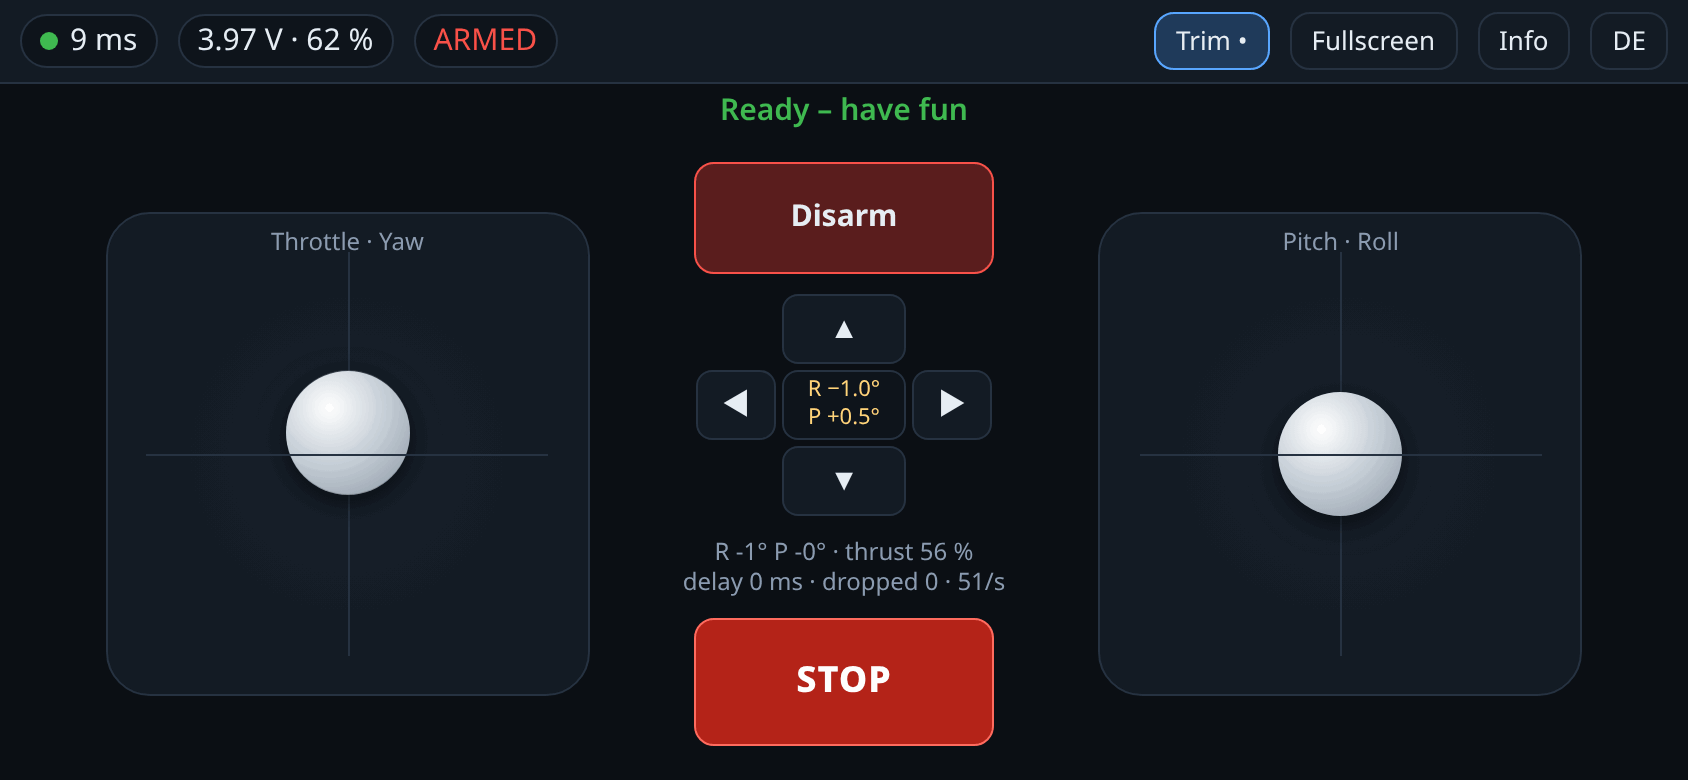
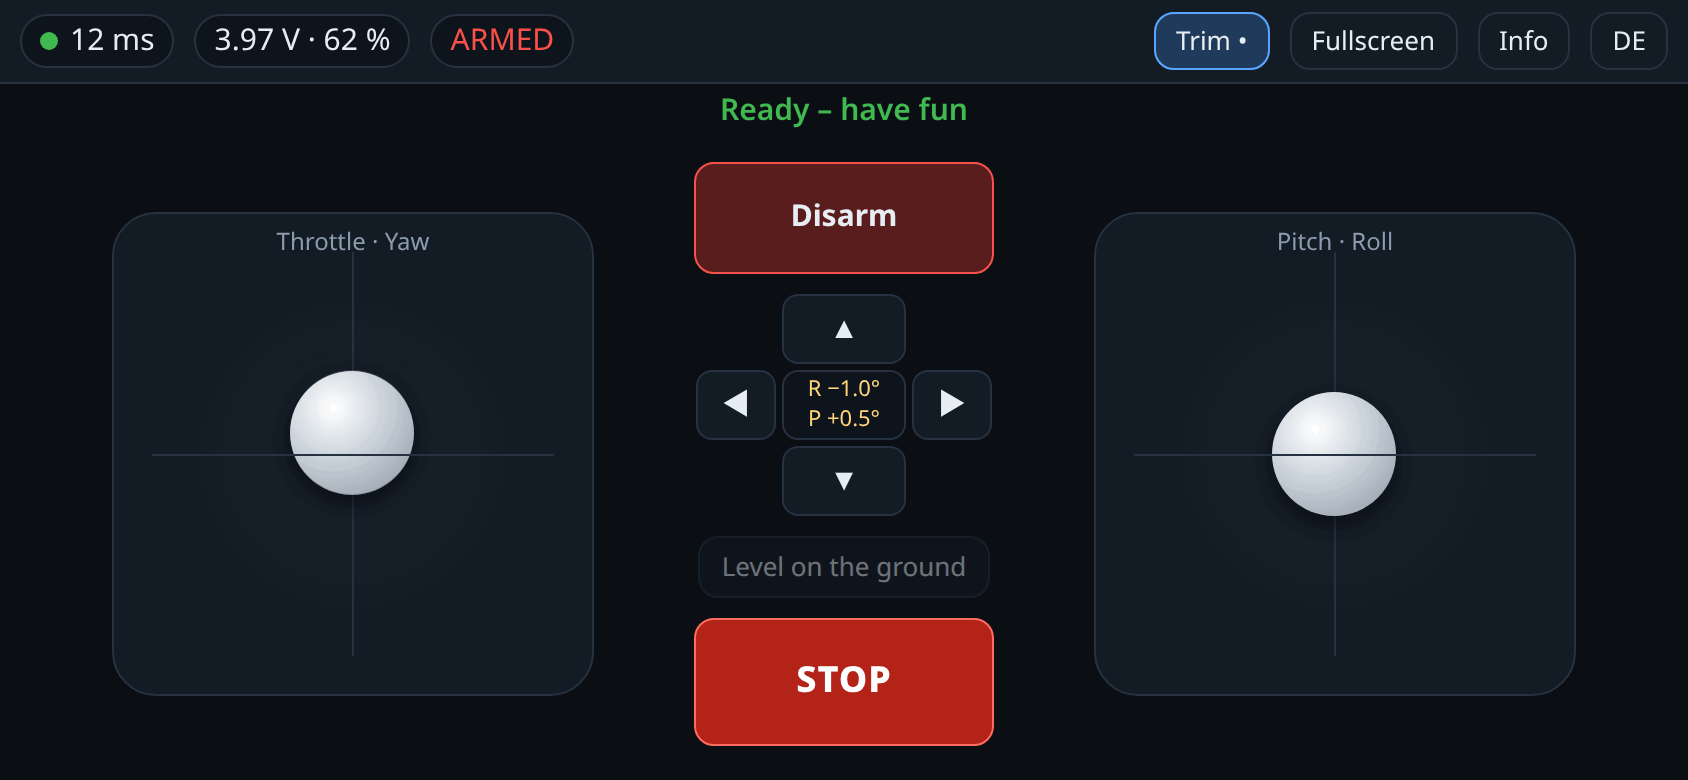
feat(webctrl): level on the ground, getting started guide
Cheap IMU modules sit a few degrees off, so the drone drifts until it is
trimmed in flight. "Level on the ground" in the trim panel measures the
attitude the drone reports for 2 s while it stands still on a level
surface and sets the trim from it (roll trim = roll reading, pitch trim
= minus the pitch reading). It refuses while armed, if the drone moves
(spread above 0.5 deg) or if it is tilted more than 5 deg. Page only:
it uses the existing TRIM message, and the drone stores the result.
While trimming, the stats make room for the button.

docs/getting-started.md takes an E1 Mini from the box to the first
hover in seven steps, linked from the README and the guides.
mock_drone.py simulates a tilted sensor (--imu-offset); a headless
Chrome test checked levelling, the 5 deg limit and the armed lock. The
README screenshots are renewed.

Claude-Session: https://claude.ai/code/session_01JeiNBQi8hs8RskSMvmnBpu

diff --git a/components/webctrl/web/index.html b/components/webctrl/web/index.html
@@ -50,6 +50,9 @@ button:disabled{opacity:.45}
 #mid.trimming #horizon{display:none}
 #mid.trimming #trim{display:grid}
 #trimBtn.on{background:#1f3a5a;border-color:var(--accent)}
+#level{display:none;width:146px;padding:6px 8px;font-size:13px}
+#mid.trimming #level{display:block}
+#mid.trimming #stats{display:none}
 #rotate,#dlg{position:fixed;inset:0;display:none;align-items:center;justify-content:center;background:#0b0f14f2;z-index:5;padding:20px;text-align:center}
 #dlg .box{max-width:560px;max-height:90vh;overflow:auto;text-align:left;background:var(--panel);border:1px solid var(--line);border-radius:14px;padding:16px;user-select:text;-webkit-user-select:text;touch-action:pan-y}
 #dlg h2{margin:.2em 0 .5em;font-size:18px}#dlg p{margin:.5em 0;color:#c8d1db}#dlg small{color:var(--dim)}
@@ -79,6 +82,7 @@ button:disabled{opacity:.45}
         <button data-ax="r" data-d="-1" data-ta="trimLeft">◀</button><div id="trimVal"><span id="trimR"></span><span id="trimP"></span></div><button data-ax="r" data-d="1" data-ta="trimRight">▶</button>
         <span></span><button data-ax="p" data-d="-1" data-ta="trimDown">▼</button><span></span>
       </div>
+      <button id="level" data-t="level"></button>
       <div id="stats">–</div>
       <button id="kill" data-t="kill"></button>
     </div>
@@ -124,6 +128,9 @@ const TEXT = {
     kill: "STOP", killSent: "STOP sent – motors off",
     trimUp: "Trim forward", trimDown: "Trim backward", trimLeft: "Trim left", trimRight: "Trim right",
     trimLimit: "Trim at its limit (±5°)", trimReset: "Trim reset to 0", roll: "R", pitch: "P",
+    level: "Level on the ground", levelBusy: "Measuring… keep still", levelNotNow: "Level only on the ground, disarmed",
+    levelNoData: "No attitude data – try again", levelMoved: "The drone moved – put it down still and try again",
+    levelTooFar: "Tilted more than 5° – is the surface level?", levelDone: (r, p) => `Levelled: trim R ${r} · P ${p}`,
     stats: (s) => `R ${s.roll}° P ${s.pitch}° · thrust ${s.thrust} %\ndelay ${s.delay} ms · dropped ${s.stale} · ${s.rate}/s`,
     stages: ["", "Short gap – holding the last command", "Link lost – drone is levelling out",
       "Link lost – drone is descending", "Motors off"],
@@ -151,7 +158,8 @@ const TEXT = {
     helpLink: "<b>Link loss:</b> The drone bridges short gaps; after that it levels out, descends and turns the motors off",
     helpTrim: "<b>Trim:</b> If the drone drifts sideways by itself while hovering, tap “Trim” and correct with the " +
       "arrows (0.5° per tap, up to ±5°): if it drifts to the right, tap ◀. A long press on the middle resets to 0. " +
-      "The drone stores the values; in flight only the pilot may trim.",
+      "The drone stores the values; in flight only the pilot may trim. Before the first flight, put the drone on a " +
+      "level surface and tap “Level on the ground”: it measures the tilt of the sensor and sets the trim from it.",
     helpBattery: "<b>Battery:</b>",
     helpSafety: "<b>Safety:</b> Propellers can injure. Only fly in a safe place and keep away from people.",
     license: "ESP-Drone web control · Copyright © 2026 Philipp Weber. Based on ESP-Drone (© Espressif Systems) " +
@@ -170,6 +178,9 @@ const TEXT = {
     kill: "NOT-AUS", killSent: "NOT-AUS gesendet",
     trimUp: "Trimm vorwärts", trimDown: "Trimm rückwärts", trimLeft: "Trimm links", trimRight: "Trimm rechts",
     trimLimit: "Trimmung am Anschlag (±5°)", trimReset: "Trimmung auf 0 gesetzt", roll: "R", pitch: "N",
+    level: "Am Boden nivellieren", levelBusy: "Misst… nicht bewegen", levelNotNow: "Nivellieren nur am Boden und entschärft",
+    levelNoData: "Keine Lagedaten – bitte noch einmal", levelMoved: "Drohne hat sich bewegt – still hinstellen und nochmal",
+    levelTooFar: "Mehr als 5° schief – ist die Fläche eben?", levelDone: (r, p) => `Nivelliert: Trimmung R ${r} · N ${p}`,
     stats: (s) => `R ${s.roll}° N ${s.pitch}° · Schub ${s.thrust} %\nVerzög. ${s.delay} ms · verworfen ${s.stale} · ${s.rate}/s`,
     stages: ["", "Aussetzer – letzter Befehl wird gehalten", "Verbindung weg – Drohne richtet sich gerade aus",
       "Verbindung weg – Drohne sinkt ab", "Motoren aus"],
@@ -200,7 +211,9 @@ const TEXT = {
       "sinkt ab und schaltet die Motoren ab",
     helpTrim: "<b>Trimmen:</b> Driftet die Drohne beim Schweben von allein zur Seite, „Trimm“ antippen und mit den " +
       "Pfeilen gegensteuern (je 0,5°, höchstens ±5°): Driftet sie nach rechts, ◀ tippen. Lange auf die Mitte " +
-      "drücken setzt auf 0. Die Drohne speichert die Werte selbst; im Flug darf nur der Pilot trimmen.",
+      "drücken setzt auf 0. Die Drohne speichert die Werte selbst; im Flug darf nur der Pilot trimmen. Vor dem ersten " +
+      "Flug die Drohne auf eine ebene Fläche stellen und „Am Boden nivellieren“ tippen: Sie misst die Schieflage des " +
+      "Sensors und stellt die Trimmung danach ein.",
     helpBattery: "<b>Akku:</b>",
     helpSafety: "<b>Sicherheit:</b> Propeller können verletzen. Nur in sicherer Umgebung fliegen, Abstand zu Personen halten.",
     license: "ESP-Drone Web Control · Copyright © 2026 Philipp Weber. Basiert auf ESP-Drone (© Espressif Systems) " +
@@ -331,6 +344,7 @@ function onTelemetry(v) {
   const now = performance.now();
   const wasFlying = !!(tel && (tel.state & S_ARMED) && (tel.state & S_YOU));
   lastTel = now; tel = tm;
+  if (levelSamples && now < levelUntil && !(tm.state & S_ARMED)) levelSamples.push({ r: tm.roll, p: tm.pitch });
   const r = (ms32() - tm.echoMs) >>> 0;
   if (tm.echoMs && r < 10000) rtt = rtt < 0 ? r : rtt * 0.8 + r * 0.2;
 
@@ -434,6 +448,33 @@ trimVal.addEventListener("pointerdown", () => {
   trimResetTimer = setTimeout(() => { if (sendTrim(0, 0)) { buzz(40); toast(t("trimReset"), "info"); } }, 800);
 });
 ["pointerup", "pointercancel", "pointerleave"].forEach(ev => trimVal.addEventListener(ev, () => clearTimeout(trimResetTimer)));
+// ---- level on the ground: the tilt the sensor reads becomes the trim --------
+const LEVEL_MS = 2000, LEVEL_MAX_SPREAD = 0.5, LEVEL_MAX_DEG = 5;
+let levelSamples = null, levelUntil = 0;
+$("level").addEventListener("click", () => {
+  if (levelSamples) return;
+  if (!trimAllowed() || (tel.state & S_ARMED)) { toast(t("levelNotNow"), "warn"); return; }
+  if (!(tel.state & S_READY)) { toast(t("msgCalibrating"), "warn"); return; }
+  levelSamples = []; levelUntil = performance.now() + LEVEL_MS;
+  renderTrim();
+  setTimeout(finishLevel, LEVEL_MS + 100);
+});
+function finishLevel() {
+  const samples = levelSamples || [];
+  levelSamples = null;
+  renderTrim();
+  if (samples.length < 20) { toast(t("levelNoData"), "warn"); return; }
+  const span = k => Math.max(...samples.map(x => x[k])) - Math.min(...samples.map(x => x[k]));
+  if (span("r") > LEVEL_MAX_SPREAD || span("p") > LEVEL_MAX_SPREAD) { toast(t("levelMoved"), "warn"); return; }
+  const mean = k => samples.reduce((a, x) => a + x[k], 0) / samples.length;
+  const roll = mean("r"), pitch = mean("p");
+  if (Math.abs(roll) > LEVEL_MAX_DEG || Math.abs(pitch) > LEVEL_MAX_DEG) { toast(t("levelTooFar"), "bad"); return; }
+  // To hover level, the drone has to hold the attitude its sensor reads when it
+  // stands level. Roll trim (+ = right) is the roll reading; pitch trim
+  // (+ = forward, nose down) is minus the pitch reading (+ = nose up).
+  const r = Math.round(roll * 10), p = Math.round(-pitch * 10);
+  if (sendTrim(r, p)) { buzz(40); toast(t("levelDone")(fmtTrim(r), fmtTrim(p)), "ok"); }
+}
 $("trimBtn").onclick = () => {
   const on = $("mid").classList.toggle("trimming");
   $("trimBtn").classList.toggle("on", on);
@@ -447,6 +488,9 @@ function renderTrim() {
   trimVal.classList.toggle("set", set);
   document.querySelectorAll("#trim button").forEach(b => { b.disabled = !ok; });
   $("trimBtn").textContent = t("trim") + (set ? " •" : "");
+  const lv = $("level");
+  lv.textContent = levelSamples ? t("levelBusy") : t("level");
+  lv.disabled = !!levelSamples || !ok || !!(tel && (tel.state & S_ARMED));
 }
 
 $("info").onclick = () => { $("dlg").style.display = "flex"; };

diff --git a/tools/mock_drone.py b/tools/mock_drone.py
@@ -21,6 +21,8 @@ UI tool, the real logic is tested in components/webctrl/host_test.
                               second in flight. Under load it sags by up to
                               0.4 V. Try --vbat 3.45 --drain 0.02 to see the
                               forced landing after about 10 s of hovering.
+--imu-offset R,P              the sensor reads roll R and pitch P degrees while
+                              the drone stands level (try "Level on the ground")
 
 Copyright 2026 Philipp Weber
 SPDX-License-Identifier: GPL-3.0-only
@@ -211,6 +213,9 @@ class Drone:
                 s |= S_OTHER
             if self.stage >= 2:
                 s |= S_FAILSAFE
+        # On the ground a tilted sensor shows its offset; in flight the controller
+        # holds the reading at the setpoint, so the offset is not visible.
+        off_r, off_p = (0.0, 0.0) if self.token else args.imu_offset
         v = self.vbat()
         if 0.5 <= v < BAT_LOW_V:
             s |= S_LOWBAT
@@ -224,7 +229,8 @@ class Drone:
         seq, cms = c.echo
         mine = c is self.pilot
         return struct.pack("<BBBBHHIHhhhHHHBBIIbbH", MSG_TELEMETRY, s, self.stage if self.token else 4, c.arm_result,
-                           seq, c.rate, cms, int(v * 1000), int(self.roll * 100), int(self.pitch * 100),
+                           seq, c.rate, cms, int(v * 1000), int((self.roll + off_r) * 100),
+                           int((self.pitch + off_p) * 100),
                            int(self.yaw * 100), int(self.thrust * 1000), self.stale if mine else 0, 0,
                            s2, self.stop_reason, t, self.token if mine else 0, self.trim[0], self.trim[1], 0)
 
@@ -394,6 +400,8 @@ async def main():
     p.add_argument("--stall-ms", type=int, default=0)
     p.add_argument("--vbat", type=float, default=4.10)
     p.add_argument("--drain", type=float, default=0.004)
+    p.add_argument("--imu-offset", default="0,0", type=lambda v: tuple(float(x) for x in v.split(",")),
+                   help="roll,pitch in degrees")
     args = p.parse_args()
     drone.vbat_rest = args.vbat
     sys.stdout.reconfigure(line_buffering=True)

diff --git a/docs/getting-started.md b/docs/getting-started.md
@@ -1,0 +1,86 @@
+# Getting started with the E1 Mini
+
+From the box to the first hover in seven steps. Details for every step are in
+[e1-mini.md](e1-mini.md) (hardware, bench checklist) and
+[webcontrol.md](webcontrol.md) (the control page).
+
+> **Nothing has been tested on real hardware yet.** Keep the propellers off
+> until step 6, and stop at the first step that does not behave as described.
+
+## 1. What you need
+
+- The E1 Mini kit ("ESP32 Drone", often with "E1" or "E1 Mini" in the name).
+- A 1S LiPo flight battery with a PH2.0 plug, at most 12 mm thick, see
+  [Battery](e1-mini.md#battery). The kit usually ships without one.
+- A computer with Chrome or Edge and a USB **data** cable, and a phone.
+
+## 2. Back up the factory firmware (optional)
+
+To be able to go back, read the factory firmware first:
+`esptool.py --port /dev/ttyUSB0 read_flash 0 ALL e1mini-factory.bin`
+(details: [e1-mini.md](e1-mini.md#back-up-the-factory-firmware-before-the-first-flash)).
+You can also [try the factory firmware](e1-mini.md#try-the-factory-firmware-first)
+first; if the drone flies with it, the hardware is fine.
+
+## 3. Install the firmware
+
+Open the [web flasher](https://technikweber.github.io/esp-drone/) in Chrome or
+Edge, connect the ESP32 by USB, click "Install on the E1 Mini", pick the serial
+port, tick "Erase device" and wait about a minute. Other ways:
+[flashing.md](flashing.md). On Linux your user needs the group `dialout`.
+
+## 4. First start (propellers off)
+
+1. Insert the battery. **Check the polarity first:** pin 1 of the socket is +,
+   and there is no protection against a reversed plug.
+2. Put the drone on a flat surface and do not touch it.
+3. On the phone, join the Wi-Fi `ESP-DRONE_…` (password `12345678`). The
+   control page opens by itself; if not, open `http://192.168.43.42`.
+4. Wait until "Calibrating – keep the drone still" disappears and "Arm" can be
+   pressed. Turn the phone sideways.
+
+## 5. Level the drone
+
+Most IMU modules sit a few degrees off. On a level surface, tap **Trim** in the
+top bar, then **Level on the ground**, and keep the drone still for two seconds.
+The page shows "Levelled: trim R … · P …"; the drone stores the values. Tap
+Trim again to get the horizon back.
+
+## 6. Bench test (propellers still off)
+
+Work through the [bench checklist](e1-mini.md#bench-checklist--without-propellers).
+The most important points:
+
+- **Motor order and direction:** front left and rear right spin clockwise, the
+  other two counter-clockwise (seen from above).
+- **Counter-steering:** hold the drone, throttle down, hold "Arm" for one
+  second, throttle to about 20 %. Tilt it right side down: the right motors
+  get faster. Nose down: the front motors get faster. If the wrong motors
+  react, do not fly.
+- **STOP** turns the motors off at once.
+
+## 7. First flight
+
+1. Fit the propellers as from the factory (mind the direction) and, ideally,
+   the prop guards. Use a small, open room with nobody nearby.
+2. Throttle down, hold "Arm" for one second, then raise the throttle slowly
+   until the drone lifts off. Stay low for the first flights.
+3. If it drifts steadily to one side, correct it with Trim in 0.5° steps: if it
+   drifts to the right, tap ◀.
+4. Land by lowering the throttle, then tap "Disarm". If anything goes wrong,
+   tap **STOP**.
+
+If the link drops, the drone levels out, descends and turns the motors off
+after 4 s. With an empty battery it lands by itself.
+
+## If something is wrong
+
+| What you see | What to do |
+|---|---|
+| No Wi-Fi `ESP-DRONE_…` | Check the battery and the polarity; flash again. |
+| The page does not open | Open `http://192.168.43.42` in the browser; switch off mobile data. |
+| "Arm" stays grey | The message line says why: still calibrating (keep it still), battery empty, or another controller is flying. |
+| The drone drifts | Level on the ground (step 5), then trim in flight. |
+| It oscillates or turns sluggishly | Tune the controller gains, see [First flight](e1-mini.md#first-flight). |
+| The motors stop right after take-off | The battery cannot deliver the current; use a 1S pack for RC models. |
+| The wrong motors react on the bench | Do not fly; check the motor pins and `IMU_ROTATION` in `menuconfig`. |

diff --git a/README.md b/README.md
@@ -9,7 +9,8 @@ page opens by itself (captive portal). No app, no account, no internet.
 **Install:** one click in the [web flasher](https://technikweber.github.io/esp-drone/)
 (Chrome or Edge on a computer), or download an image from the
 [releases](https://github.com/TechnikWeber/esp-drone/releases). All ways, including
-Espressif's own tools: [docs/flashing.md](docs/flashing.md).
+Espressif's own tools: [docs/flashing.md](docs/flashing.md). **First steps,** from the
+box to the first hover: [docs/getting-started.md](docs/getting-started.md).
 
 <table>
   <tr>
@@ -25,7 +26,7 @@ Espressif's own tools: [docs/flashing.md](docs/flashing.md).
     <td><img src="docs/images/webcontrol-battery.png" alt="Forced landing with an empty battery"></td>
   </tr>
   <tr>
-    <td><b>Trim.</b> Correct a sideways drift in 0.5° steps; the drone stores it.</td>
+    <td><b>Trim.</b> Level the drone on the ground with one tap, correct a drift in 0.5° steps; the drone stores it.</td>
     <td><b>Empty battery.</b> The drone lands by itself while you keep steering.</td>
   </tr>
 </table>

diff --git a/docs/e1-mini.md b/docs/e1-mini.md
@@ -14,6 +14,9 @@ hardware, how to flash it and how to test on the bench before the first flight.
 > **Status:** ported from the vendor's documents, **not tested on real hardware
 > yet**. The bench checklist below is therefore mandatory.
 
+The short path from the box to the first hover:
+[getting-started.md](getting-started.md).
+
 ## Hardware
 
 | Function | Connection | Source |
@@ -231,6 +234,7 @@ Every item has to pass before the propellers go on.
 - Small, open room, nobody nearby, prop guards on.
 - Propellers as from the factory (mind the direction), battery full.
 - Put the drone down level and keep it still until the calibration is done.
+  Before the first flight, tap Trim → "Level on the ground" once.
 - Arm and raise the throttle slowly. If it tips over or spins away on takeoff:
   **STOP** at once.
 - Controller gains: for roll and pitch the E1 Mini uses the vendor firmware's

diff --git a/docs/webcontrol.md b/docs/webcontrol.md
@@ -115,6 +115,11 @@ If the drone drifts sideways by itself while hovering, the trim corrects it: tap
   drone, and the portal window on iPhones forgets its storage. They are written
   only while nobody is armed, because writing the flash stalls the flight
   controller briefly.
+- **Level on the ground** (button in the trim panel): with the drone standing
+  still on a level surface, the page averages the attitude the drone reports
+  for 2 s and sets the trim from it, so the drone hovers level from the first
+  flight. It refuses if the drone moves or is tilted more than 5°, and works
+  only while disarmed.
 - On the ground every phone may trim, in flight only the pilot.
 - The trim applies to web control only, not to the app or cfclient.
 
